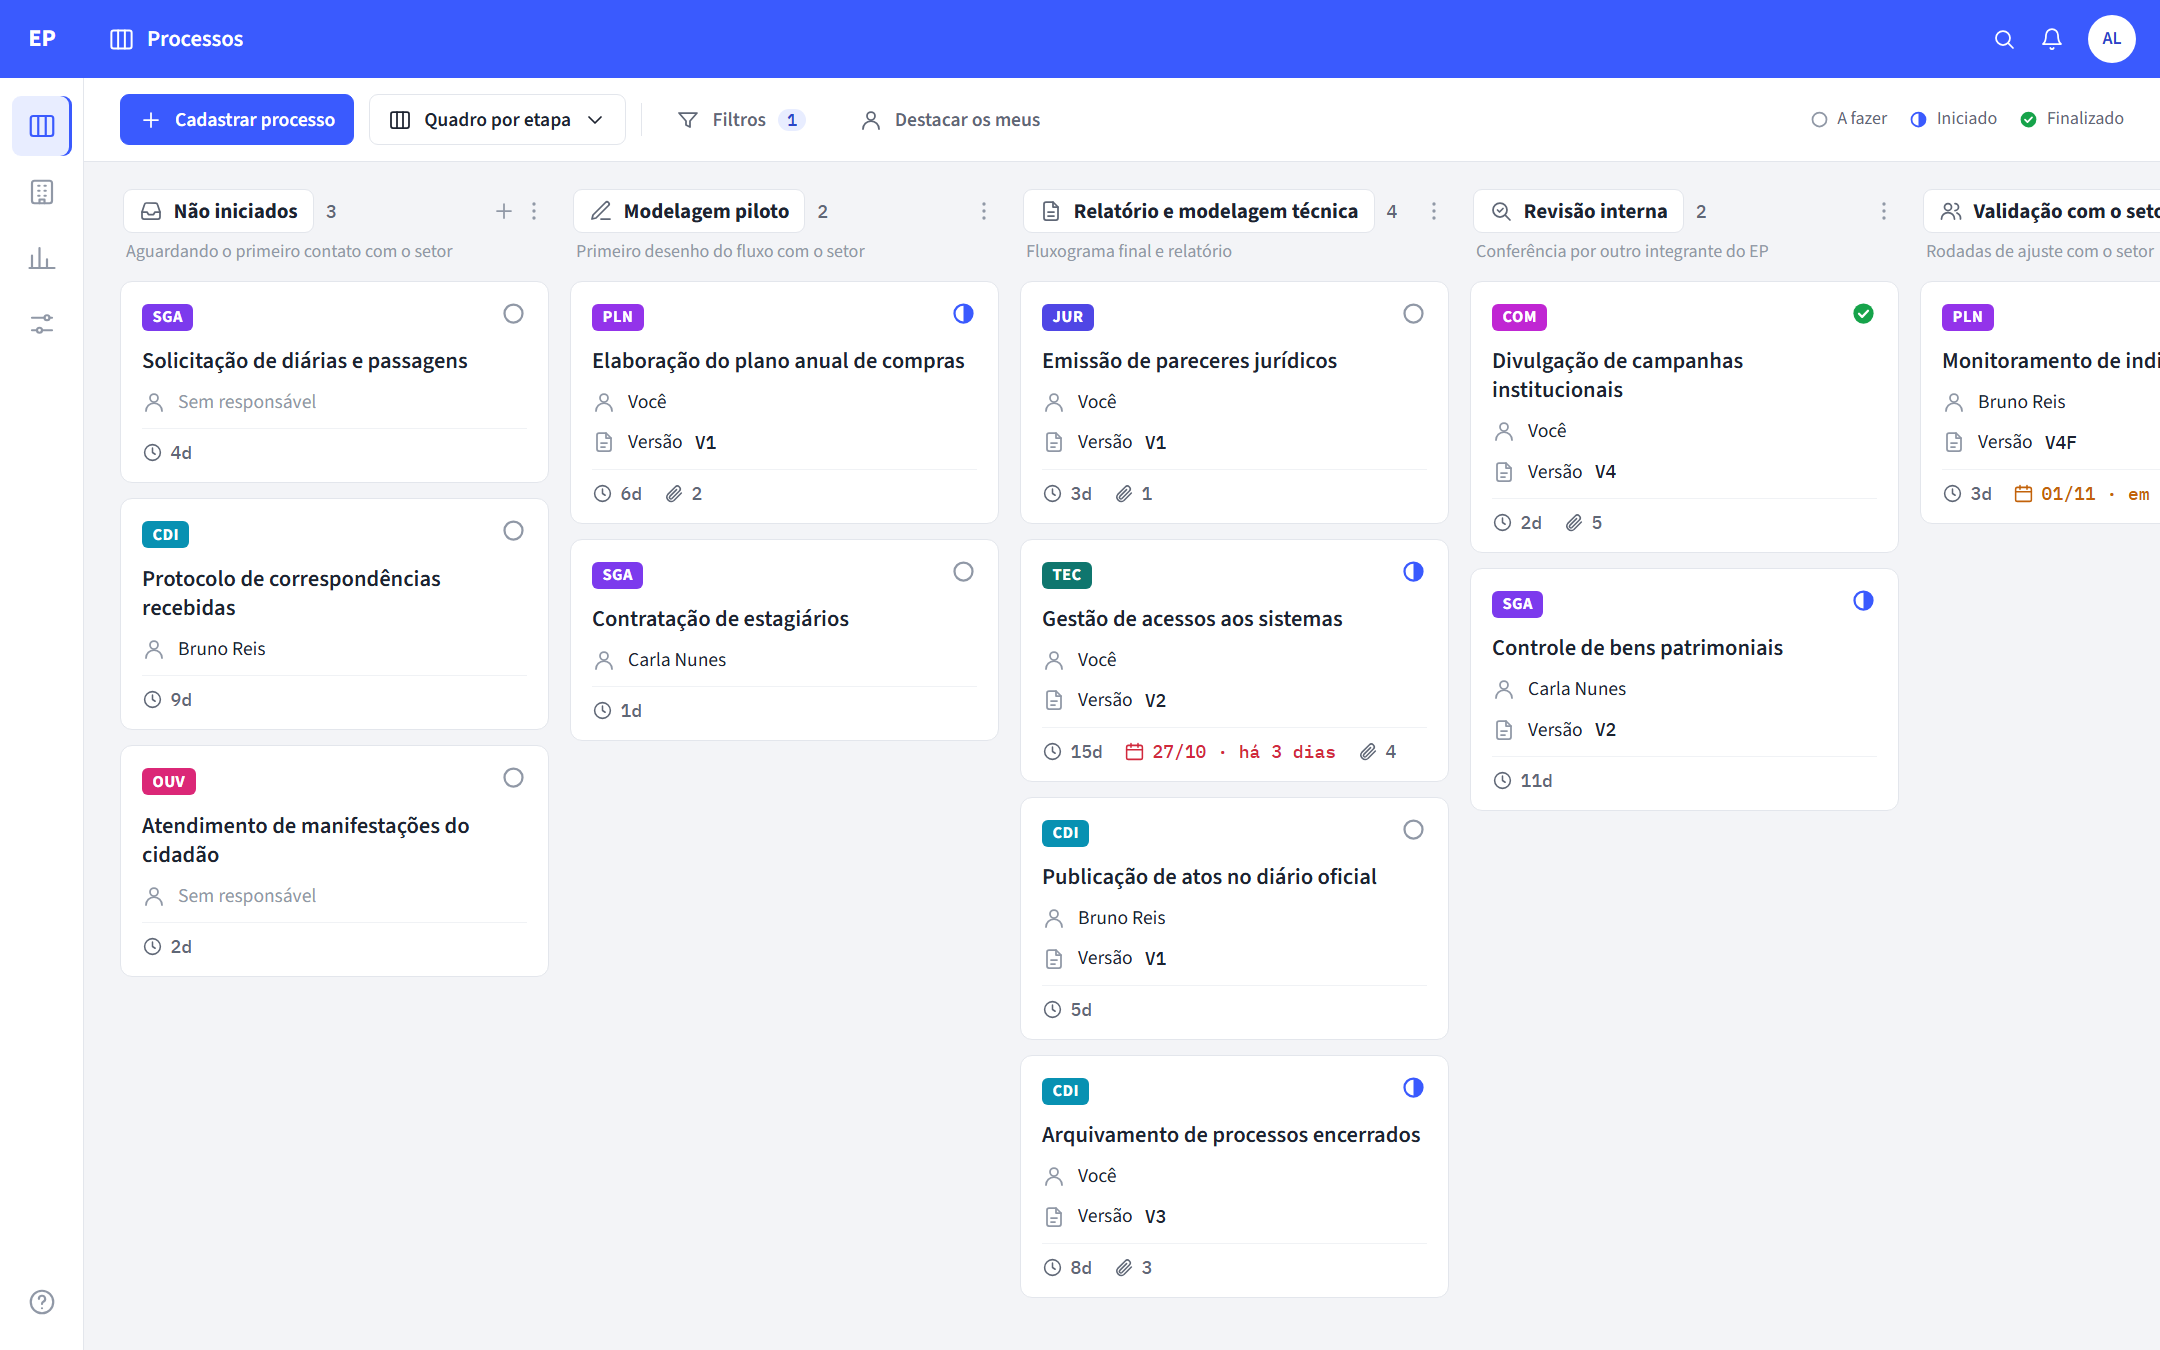
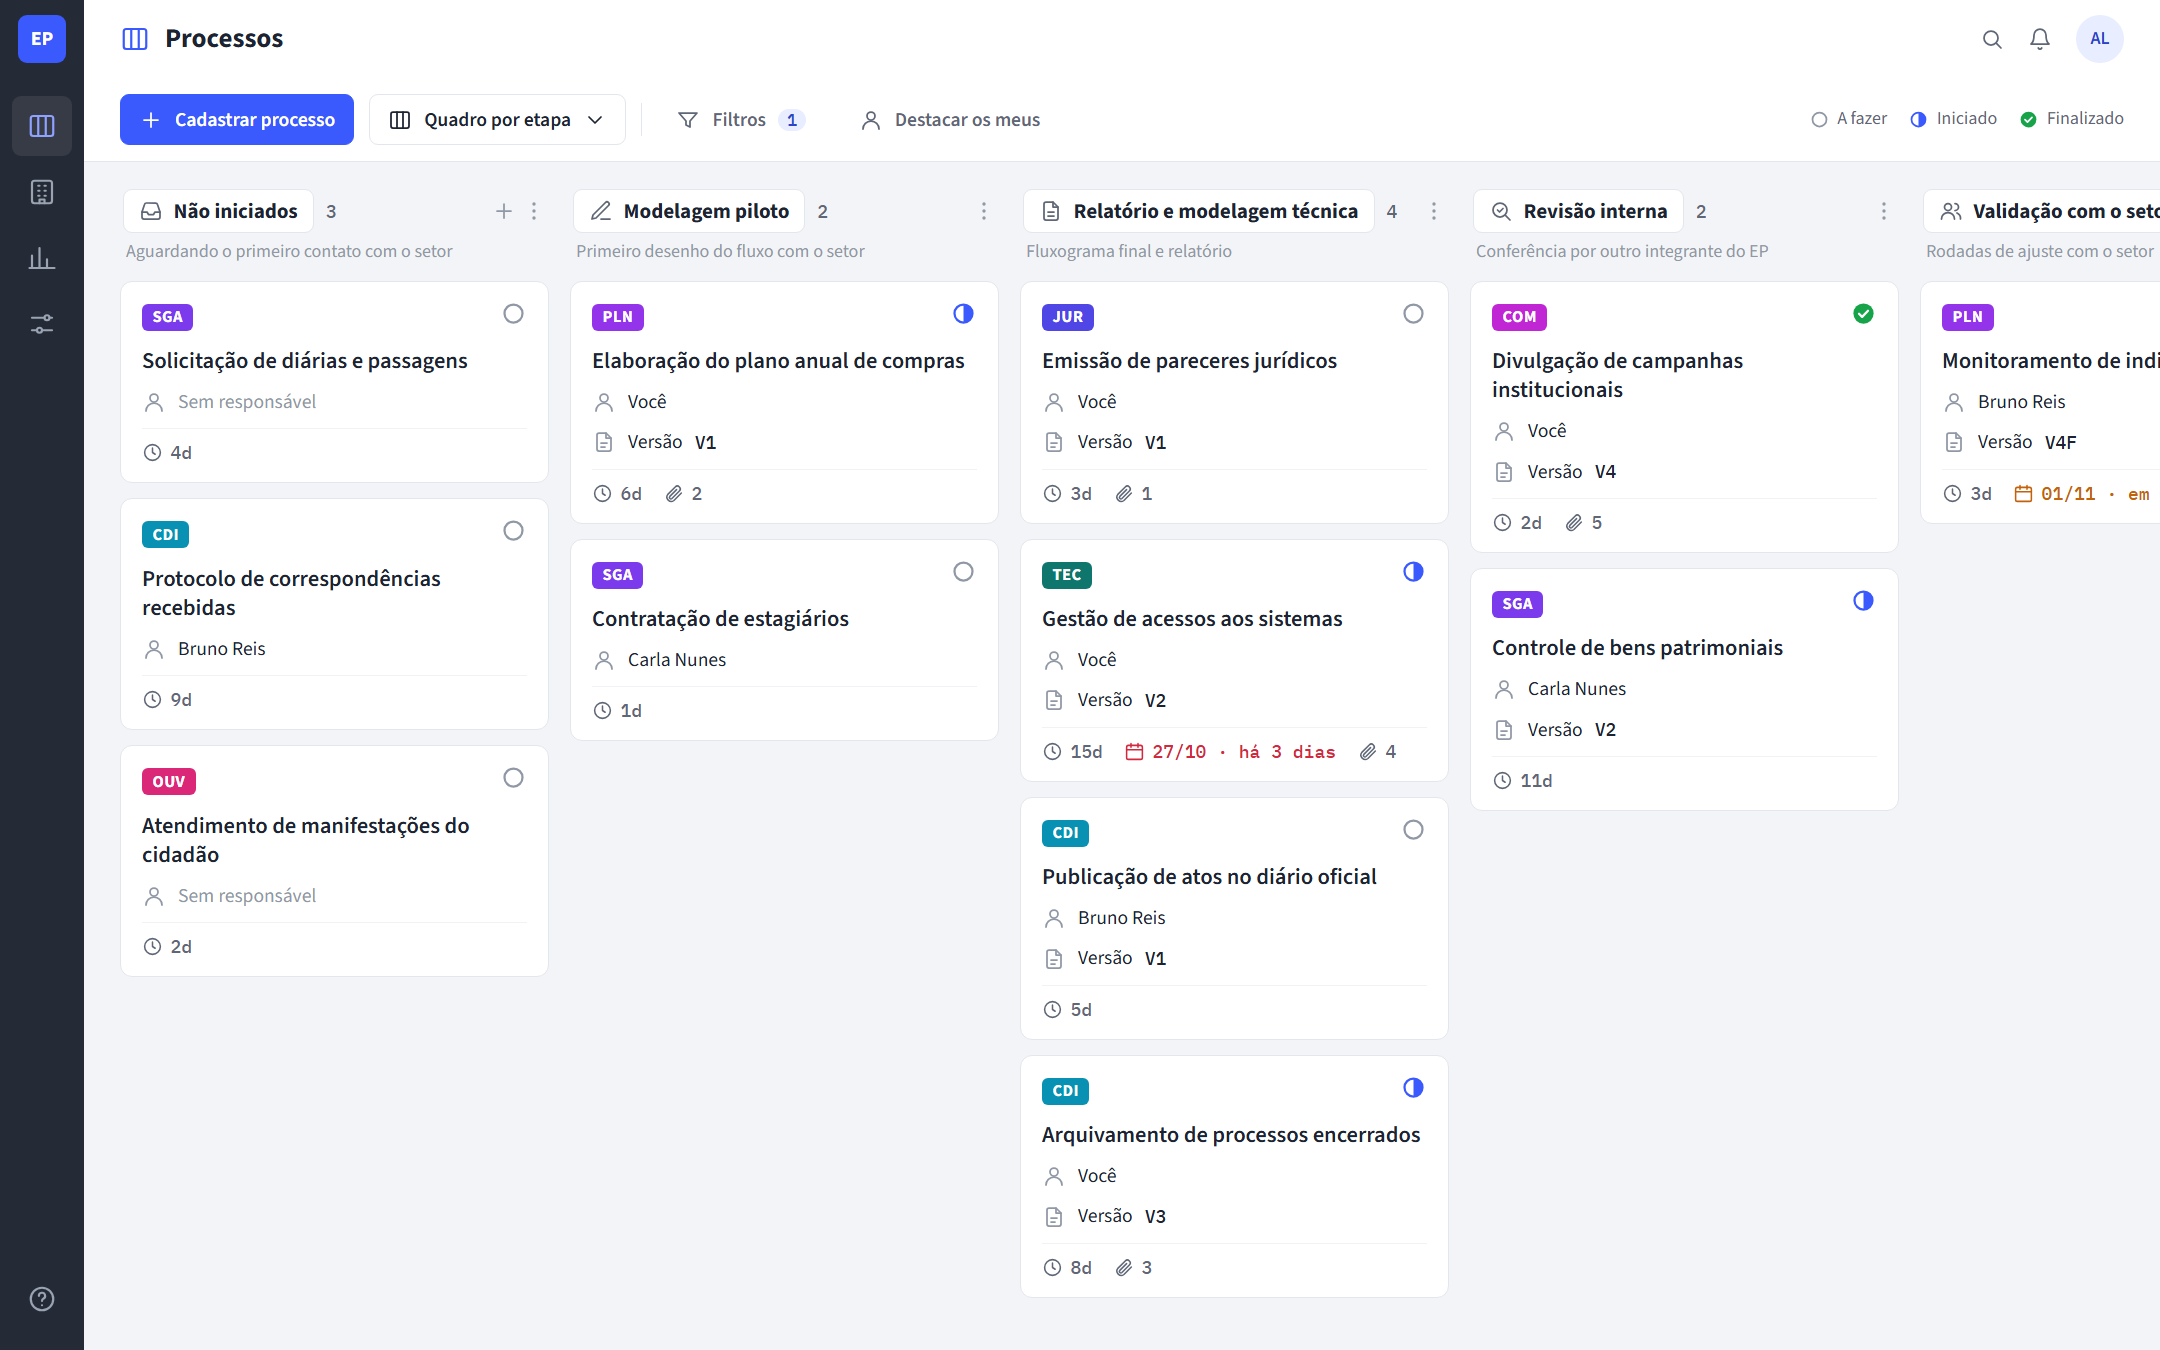
proposta visual 2: cores da proposta 1 na estrutura de barra e faixa de ícones

Changed region(s): [[0.0, 0.0, 1.0, 1.0]]

diff --git a/.scratch/proposta-visual/proposta-2.html b/.scratch/proposta-visual/proposta-2.html
@@ -1,5 +1,5 @@
 <!doctype html>
-<!-- Protótipo descartável, proposta 2 (2026-10-30): igual à proposta 1, só com a estrutura da plataforma de hoje (barra azul em cima e faixa de ícones à esquerda). Dados inventados. Visões: #etapas, #meus, #setores, #matriz -->
+<!-- Protótipo descartável, proposta 2 (2026-10-30): igual à proposta 1, só com a estrutura da plataforma de hoje (barra em cima e faixa estreita de ícones à esquerda), nas cores da proposta 1. Dados inventados. Visões: #etapas, #meus, #setores, #matriz -->
 <html lang="pt-BR">
 <head>
 <meta charset="utf-8">
@@ -16,14 +16,13 @@ svg.i{width:16px;height:16px;fill:none;stroke:currentColor;stroke-width:1.75;str
 .item{display:flex;align-items:center;gap:12px;padding:9px 10px;border-radius:6px;color:var(--lateral-2);font-weight:600;font-size:14px}.item svg{width:18px;height:18px}
 .item.ativo{background:rgb(255 255 255/.08);color:#fff}.item.ativo svg{color:#8fa2ff}
 .lateral .fim{margin-top:auto}
-/* Estrutura de hoje: barra azul em toda a largura e faixa branca de ícones abaixo dela. */
-.lateral{grid-row:2/4;background:#fff;border-right:1px solid var(--linha);padding:12px 8px;align-items:center;gap:4px}
-.lateral .item{width:40px;height:40px;padding:0;justify-content:center;color:var(--inativo)}.lateral .item svg{width:20px;height:20px}
-.lateral .item.ativo{background:var(--azul-claro);color:var(--azul);box-shadow:inset -2px 0 0 var(--azul)}.lateral .item.ativo svg{color:var(--azul)}
-.topo{grid-column:1/-1;background:var(--azul);color:#fff;display:flex;align-items:center;gap:16px;padding:0 16px 0 0}
-.topo .ep{width:56px;text-align:center;font-weight:700;font-size:16px}
-.topo h1{font-size:15px;font-weight:600;display:flex;align-items:center;gap:8px}.topo h1 svg{width:18px;height:18px}
-.topo .dir{margin-left:auto;display:flex;align-items:center;gap:16px;color:#fff}.topo .av.eu{background:#fff}
+/* Estrutura de hoje (barra em cima, faixa estreita de ícones) com as cores da proposta 1: faixa grafite e barra branca. */
+.lateral{grid-row:1/4;padding:10px 8px 14px;align-items:center;gap:4px}
+.lateral .marca{padding:0 0 18px}.lateral .marca b{width:32px;height:32px}
+.lateral .item{width:40px;height:40px;padding:0;justify-content:center}.lateral .item svg{width:20px;height:20px}
+.topo{background:#fff;display:flex;align-items:center;gap:16px;padding:0 24px}
+.topo h1{font-size:18px;font-weight:700;display:flex;align-items:center;gap:10px}.topo h1 svg{width:20px;height:20px;color:var(--azul)}
+.topo .dir{margin-left:auto;display:flex;align-items:center;gap:16px;color:var(--texto-2)}
 .av{width:24px;height:24px;border-radius:50%;background:#e9ecf1;color:#4a5163;font:600 10px/24px 'Source Sans 3';text-align:center;flex:none}.av.eu{background:var(--azul-claro);color:var(--azul-escuro)}.av.g{width:32px;height:32px;line-height:32px;font-size:12px}
 .barra{background:#fff;border-bottom:1px solid var(--linha);display:flex;align-items:center;gap:10px;padding:0 24px}
 .btn{border:1px solid var(--linha);background:#fff;font:600 13px 'Source Sans 3';color:var(--texto);height:34px;padding:0 12px;border-radius:6px;display:inline-flex;align-items:center;gap:8px}
@@ -83,9 +82,10 @@ svg.i{width:16px;height:16px;fill:none;stroke:currentColor;stroke-width:1.75;str
 <symbol id="e4" viewBox="0 0 24 24"><circle cx="9" cy="8" r="3.5"/><path d="M2.5 20a6.5 6.5 0 0 1 13 0M16 4.5a3.5 3.5 0 0 1 0 7M18 14a6 6 0 0 1 3.5 6"/></symbol>
 <symbol id="e5" viewBox="0 0 24 24"><path d="M12 3l2.4 1.8 3-.2.9 2.9 2.5 1.7-1 2.8 1 2.8-2.5 1.7-.9 2.9-3-.2L12 21l-2.4-1.8-3 .2-.9-2.9L3.2 14.8l1-2.8-1-2.8 2.5-1.7.9-2.9 3 .2z"/><path d="M8.5 12l2.3 2.3 4.7-4.6"/></symbol>
 </svg>
-<header class="topo"><span class="ep">EP</span><h1><svg class="i"><use href="#quadro"/></svg>Processos</h1>
+<header class="topo"><h1><svg class="i"><use href="#quadro"/></svg>Processos</h1>
  <div class="dir"><svg class="i"><use href="#busca"/></svg><svg class="i"><use href="#sino"/></svg><span class="av eu g">AL</span></div></header>
 <aside class="lateral">
+ <div class="marca" title="Escritório de Processos"><b>EP</b></div>
  <div class="item ativo" title="Processos"><svg class="i"><use href="#quadro"/></svg></div>
  <div class="item" title="Setores"><svg class="i"><use href="#predio"/></svg></div>
  <div class="item" title="Painel"><svg class="i"><use href="#grafico"/></svg></div>
